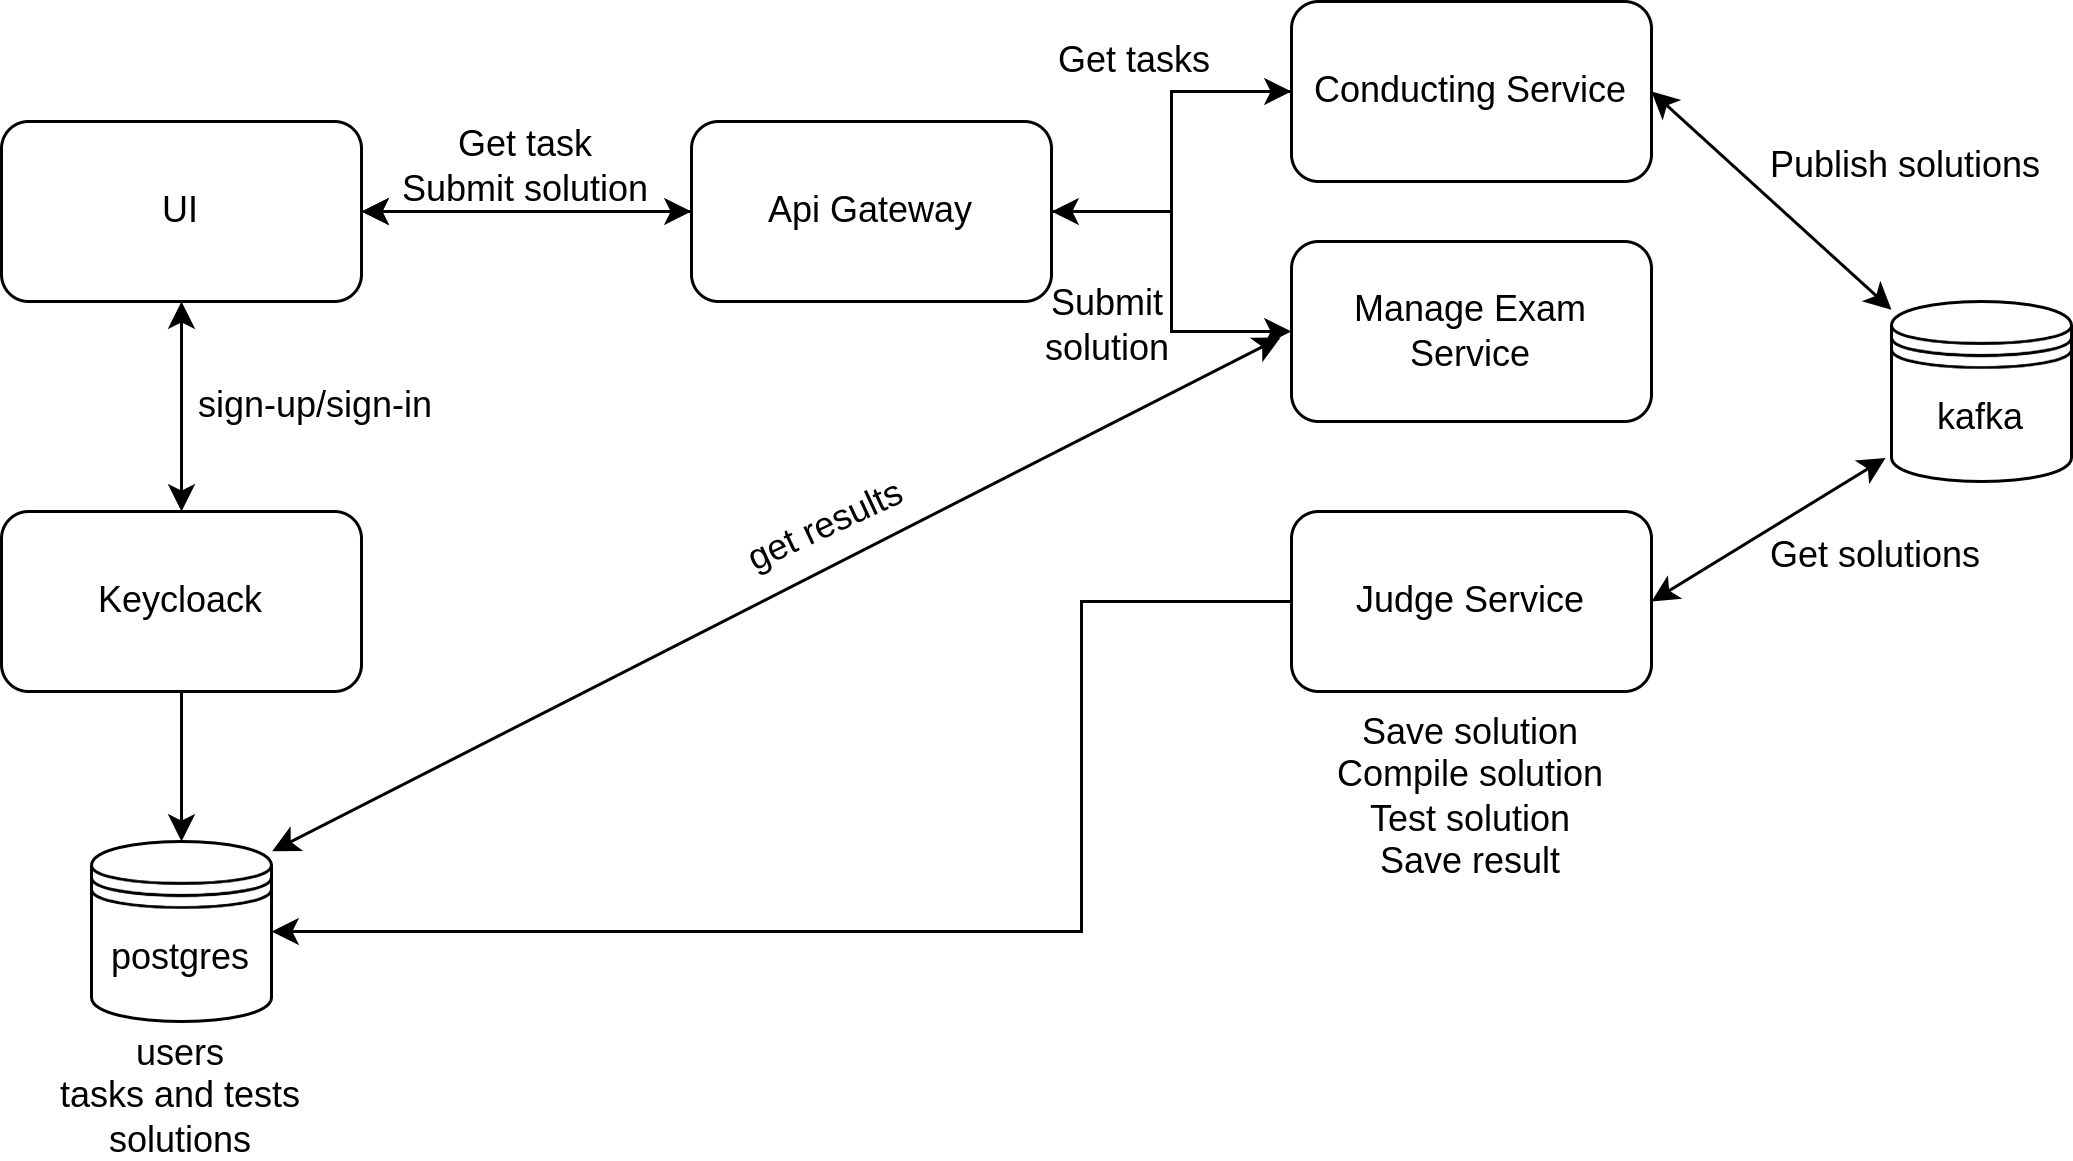
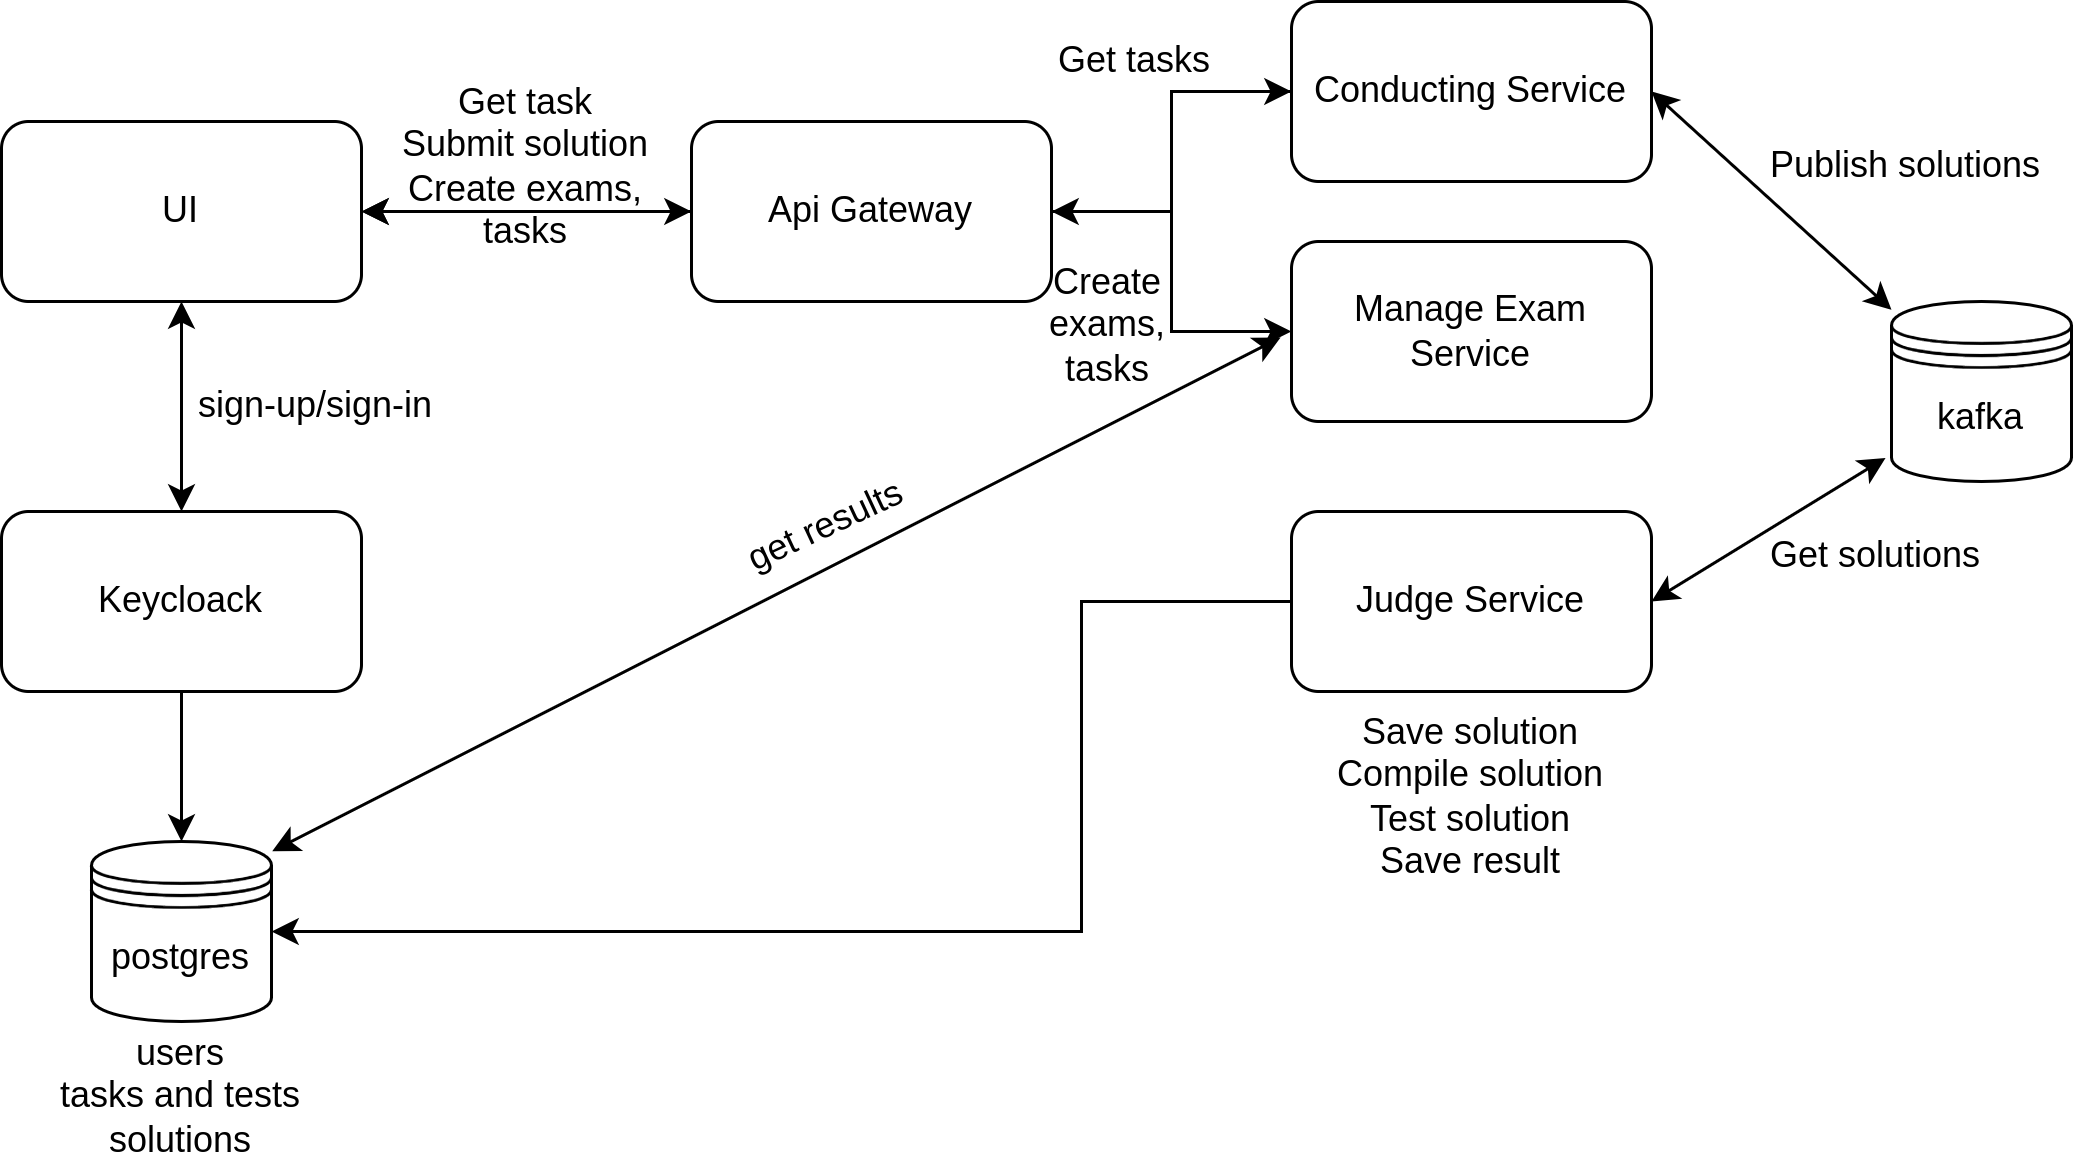
update hld diagramm

Changed region(s): [[0.1852, 0.062, 0.3087, 0.2171], [0.494, 0.2171, 0.5557, 0.3411]]

diff --git a/docs/diagrams/HLD/hld.md b/docs/diagrams/HLD/hld.md
@@ -11,16 +11,22 @@
 3. Редактор кода
 4. Отслеживание времени выполнения задания
 
-## Auth Service
+## Keycloak
 
-1. Регистрация соискателей и управление ими
+1. Регистрация экзаменаторов
 2. Выдача JWT токенов
 
-## Api Service
+## Conducting Service
 
 1. Получение задания для соискателя
 2. Загрузка решения (пуш в kafka топик)
-3. Получение результата (для админа)
+
+## Manage Service
+
+1. Управление заданиями (для экзаменатора)
+2. Создание экзаменов
+3. Создание заданий
+4. Просмотр результатов экзамена
 
 ## Judje Service
 
